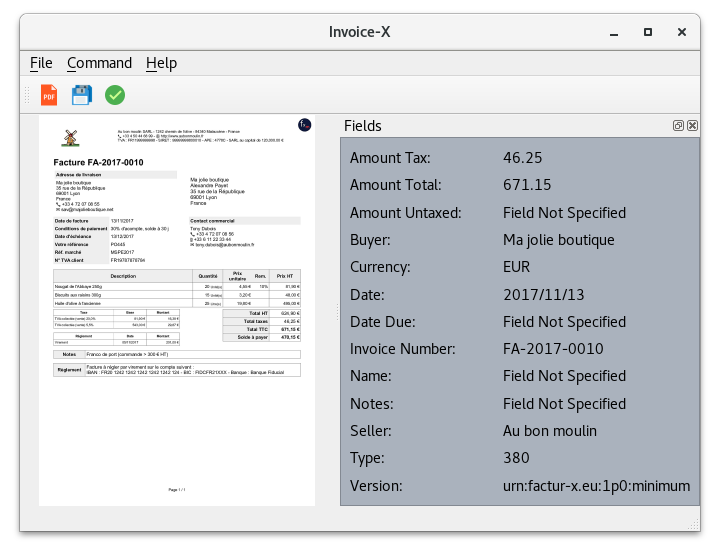
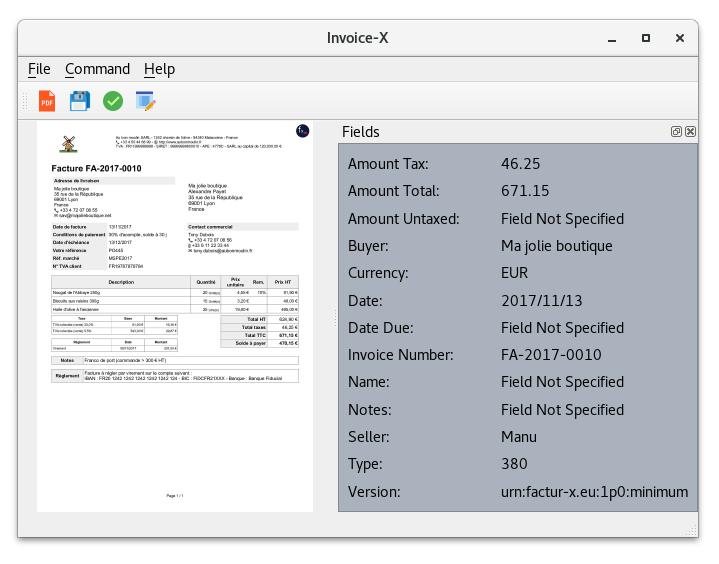
update toolbar and README.rst

Changed region(s): [[0.0, 0.0304, 0.9832, 0.9732], [0.2151, 0.8515, 0.2458, 0.8819]]

diff --git a/invoicex/mainWindow.py b/invoicex/mainWindow.py
@@ -46,6 +46,7 @@ class InvoiceX(QMainWindow):
         toolbar.addAction(self.openFile)
         toolbar.addAction(self.saveFile)
         toolbar.addAction(self.validateMetadata)
+        toolbar.addAction(self.editFields)
 
     def setCenterWidget(self):
         self.square = QLabel(self)
@@ -118,9 +119,9 @@ class InvoiceX(QMainWindow):
         addMetadata = QAction('Add Metadata', self)
         addMetadata.setStatusTip('Add metadata to PDF')
 
-        editFields = QAction('Edit Fields', self)
-        editFields.setStatusTip('Edit Fields in XML')
-        editFields.triggered.connect(self.editFieldsDialog)
+        self.editFields = QAction(QIcon('icons/edit.png'), 'Edit Metadata', self)
+        self.editFields.setStatusTip('Edit Metadata in XML')
+        self.editFields.triggered.connect(self.editFieldsDialog)
 
         documentation = QAction('Documentation', self)
         documentation.setStatusTip('Open Documentation for Invoice-X')
@@ -144,7 +145,7 @@ class InvoiceX(QMainWindow):
         exportMetadata.addAction(ymlFormat)
 
         commandMenu.addAction(self.validateMetadata)
-        commandMenu.addAction(editFields)
+        commandMenu.addAction(self.editFields)
         commandMenu.addAction(addMetadata)
         commandMenu.addAction(extractFields)
 

diff --git a/README.rst b/README.rst
@@ -19,7 +19,9 @@ Working Features:
 
 - Preview Loaded PDF
 - Load metadata to right Dock
-- Edit Fields (Doesn't save it to PDF)
+- Edit Fields
+- Save PDF file
+
 .. image:: Screenshots/mainWindow.png
 
 .. image:: Screenshots/editDialog.png
